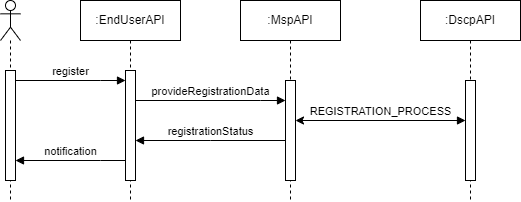
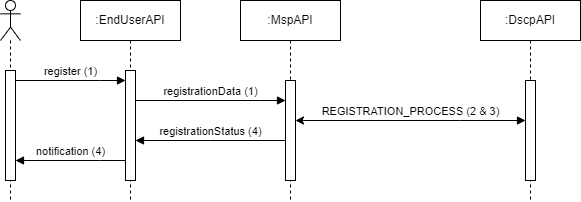
chore: add minor corrections to use case description

diff --git a/docs/use-case.md b/docs/use-case.md
@@ -6,13 +6,13 @@ This demonstrator showcases the sharing of certificate data with dataspace techn
 
 Business transaction require company certificates. Companies can issue, request, accept, or reject certificates by using dataspace technologies, enabling interoperable and trusted certificate sharing and reducing fragmentation across multiple systems.
 
-## Roles
+### Roles
 
 The use case involves four _abstract_ roles: the Cloud Service Provider (CSP), the Managed Service Provider (MSP), the Dataspace Core Service Provider (DCSP), and the SME.
 
-_Please note that the specific characteristics of the personas involved depend on the respective use case and dataspace. See [here](requirements.md#personas) for end-user personas. The following set of user stories do not include any acceptance criteria._
+_Note: The specific characteristics of the personas involved depend on the respective use case and dataspace. See [here](requirements.md#personas) for end-user personas. The following set of user stories do not include any acceptance criteria._
 
-### Cloud Service Provider
+#### Cloud Service Provider
 
 The CSP provides the infrastructure and dataspace technologies as a service.
 
@@ -26,7 +26,7 @@ The CSP provides the infrastructure and dataspace technologies as a service.
 
 _Table 1. User stories of the CSP_
 
-### Managed Service Provider
+#### Managed Service Provider
 
 The MSP provides services such as dataspace onboarding or data sharing.
 
@@ -38,7 +38,19 @@ The MSP provides services such as dataspace onboarding or data sharing.
 
 _Table 2. User stories of the MSP_
 
-### Dataspace Core Service Provider
+#### Company (SME)
+
+A company wants to connect to their business partners and share data.
+
+| #     | Title          | As a | I want                                                                   | So that                                                                 |
+|-------|----------------|------|--------------------------------------------------------------------------|-------------------------------------------------------------------------|
+| US-11 | Registration   | SME  | to register to a dataspace                                               | so that I can interact with my business partners                        |
+| US-12 | Data discovery | SME  | to search and discover datasets across multiple data sources and regions | I can find relevant data quickly without manual hopping between systems |
+| US-13 | Compliance     | SME  | to upload use case data                                                  | so that I comply with requirements from my business partners            |
+
+_Table 3. User stories of the SME_
+
+#### Dataspace Core Service Provider
 
 The DCSP provide core services of a dataspace / ecosystem.
 
@@ -49,36 +61,22 @@ _Note: In the Catena-X ecosystem, this is the Core Service Provider._
 | US-09 | Registration | DCSP | to register a new organization into the dataspace     | it can participate in the ecosystem                           |
 | US-10 | Conformity   | DCSP | to validate and verify company data during onboarding | only verified organizations are granted access to the network |
 
-_Table 3. User stories of the DCSP_
+_Table 4. User stories of the DCSP_
 
-### Company (SME)
-
-A company wants to connect to their business partners and share data.
-
-| #     | Title          | As a | I want                                                                   | So that                                                                 |
-|-------|----------------|------|--------------------------------------------------------------------------|-------------------------------------------------------------------------|
-| US-11 | Registration   | SME  | to register to a dataspace                                               | so that I can interact with my business partners                        |
-| US-12 | Data discovery | SME  | to search and discover datasets across multiple data sources and regions | I can find relevant data quickly without manual hopping between systems |
-| US-13 | Compliance     | SME  | to upload use case data                                                  | so that I comply with requirements from my business partners            |
-
-_Table 4. User stories of the SME_
-
-## Process
+### Processes
 
 _Note: We do not describe business processes in the following, e.g., population and processing of sales pipelines._
 
-### Pre-processes
+#### Pre-processes
 
 - Provisioning of a service offering (e.g., dataspace (technologies) as a service, onboarding to a dataspace)
 - Technical onboarding of the MSP (e.g., namespace creation in CSP infrastructure, tenant creation, access to interfaces)
 - Technical onboarding of the SME (e.g., tenant creation in CSP infrastructure, access to interfaces)
 
-
-
-### Dataspace onboarding
+#### Dataspace onboarding
 
 An SME wants to join a dataspace. The MSP service is used for this purpose.
-_(Note: The MSP could be an Onboarding Service Provider in the Catena-X ecosystem.)_
+_Note: The MSP could be an Onboarding Service Provider in the Catena-X ecosystem._
 
 ![Onboarding sequence](files/figs/diagrams-onboarding.png)
 
@@ -95,34 +93,17 @@ _Table 5. Steps for the dataspace onboarding process_
 
 [//]: # (Questions: Will the MSP be the CX Onboarding Service Provider?)
 
-### Data sharing
+#### Data sharing
 
-In the following scenario descriptions, the SME is the central actor. The counterparty can be any partner company that the SME interacts with.
+In this use case, the SME is the central actor. The counterparty can be any partner company that the SME interacts with.
 
-#### Push scenario
-
-In this scenario, the certificate receiver is the data provider and the certificate provider is the data consumer. 
-
-![Push scenario](files/figs/diagrams-scenario-push.png)
-
-_Figure 2. Simplified push sequence_
-
-| # | What                                           | Who            |
-|---|------------------------------------------------|----------------|
-| 1 | Create data offer for certificate management   | Provider       |
-| 2 | Discover data offer for certificate management | Consumer (SME) |
-| 3 | Establish connection _(negotiate agreement)_   | Consumer (SME) |
-| 4 | Upload certificate data                        | Consumer (SME) |
-
-_Table 6. Steps for providing certificate data on request_
-
-#### Pull scenario
+_PULL_
 
 In this scenario, the certificate provider is the data provider and the certificate receiver is the data consumer.
 
 ![Pull scenario](files/figs/diagrams-scenario-pull.png)
 
-_Figure 3. Simplified pull sequence_
+_Figure 2. Simplified pull sequence. The offering is a dataset that describes the API for downloading certificate data._
 
 | # | What                                           | Who            |
 |---|------------------------------------------------|----------------|
@@ -131,31 +112,52 @@ _Figure 3. Simplified pull sequence_
 | 3 | Establish connection _(negotiate agreement)_   | Consumer       |
 | 4 | Download certificate data                      | Consumer       |
 
-_Table 7. Steps for providing certificate data_
+_Table 6. Steps for providing certificate data_
+
+_PUSH (Alternative)_
+
+In this scenario, the certificate receiver is the data provider and the certificate provider is the data consumer. 
+
+![Push scenario](files/figs/diagrams-scenario-push.png)
+
+_Figure 3. Simplified push sequence. The offering is a dataset that describes the API for pushing certificate data._
+
+| # | What                                           | Who            |
+|---|------------------------------------------------|----------------|
+| 1 | Create data offer for certificate management   | Provider       |
+| 2 | Discover data offer for certificate management | Consumer (SME) |
+| 3 | Establish connection _(negotiate agreement)_   | Consumer (SME) |
+| 4 | Upload certificate data                        | Consumer (SME) |
+
+_Table 7. Steps for providing certificate data on request_
 
 ## Overall Technical Components
 
-The _abstract_ technical setup for the use case is separated into two environments: the dataspace and the CSP infrastructure, as depicted in Figure 3. Both the MSP and the SME have access to the infrastructure via provided (graphical interfaces). 
+The _abstract_ technical setup for the use case is separated into two environments: the _dataspace_ and the _CSP infrastructure_, as depicted in Figure 3. Both the MSP and the SME have access to the infrastructure via provided (graphical) interfaces. 
 
 We focus on four basic interactions:
 
-1. The SME uses the End-User API to manage their certificates.
-2. The EDC tenant is connected to a partner's EDC in the dataspace for data sharing (provisioning & consumption).
-3. The MPS tenant has a connection to the EDC tenant for configuration purposes (e.g., initiate setup, onboarding information).
-4. The MSP tenant realizes the technical onboarding flow.
+1. The SME uses the End-User API for **certificate management**.
+2. The EDC tenant is connected to a partner's EDC in the dataspace for **data sharing** (provisioning & consumption).
+3. The MPS tenant has a connection to the EDC tenant for **configuration** purposes (e.g., initiate setup, onboarding information).
+4. The MSP tenant realizes the technical **onboarding** to the dataspace.
 
-_Please note that the technical setup of namespaces and tenants in the CSP infrastructure is not further detailed in this picture._
+_Note: The technical setup of namespaces and tenants in the CSP infrastructure is not further detailed in this picture._
 
 ![Demo components](files/figs/diagrams-components.png)
 
-_Figure 3. Simplified technical setup of components_
+_Figure 4. Simplified technical setup of components_
 
-Description of interfaces:
+Description of services:
 
-- The CSP provides an infrastructure (EDC-V namespace) incl. an EDC Tenant (Connector, Identity Hub) and an End-User API to manage certificates.
-- The CSP provides an API and UI to manage the infrastructure.
+- The CSP provides an infrastructure (**EDC namespace**) incl. an EDC tenant (Connector, Identity Hub) and an End-User API to manage certificates.
+- The CSP provides an API to manage the infrastructure.
 - The CSP provides a UI to access the MSP tenant.
 - The MSP tenant integrates into the EDC namespace.
 - The MSP tenant implements the API to register companies to the dataspace.
 - The EDC tenant provides an API to share data.
 - The EDC tenant implements the API to share data.
+
+## User Journey
+
+_To be added (screenshots)_
